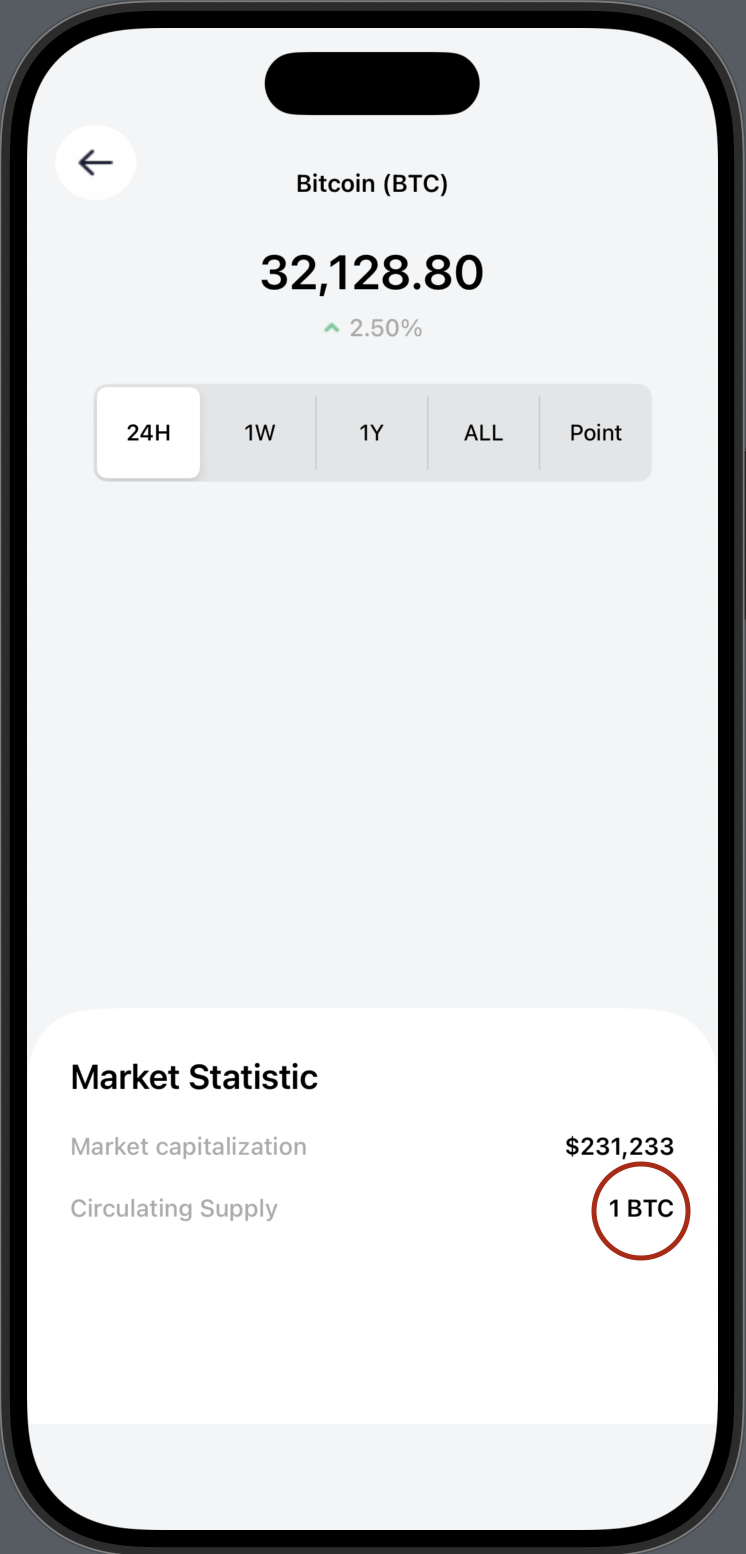
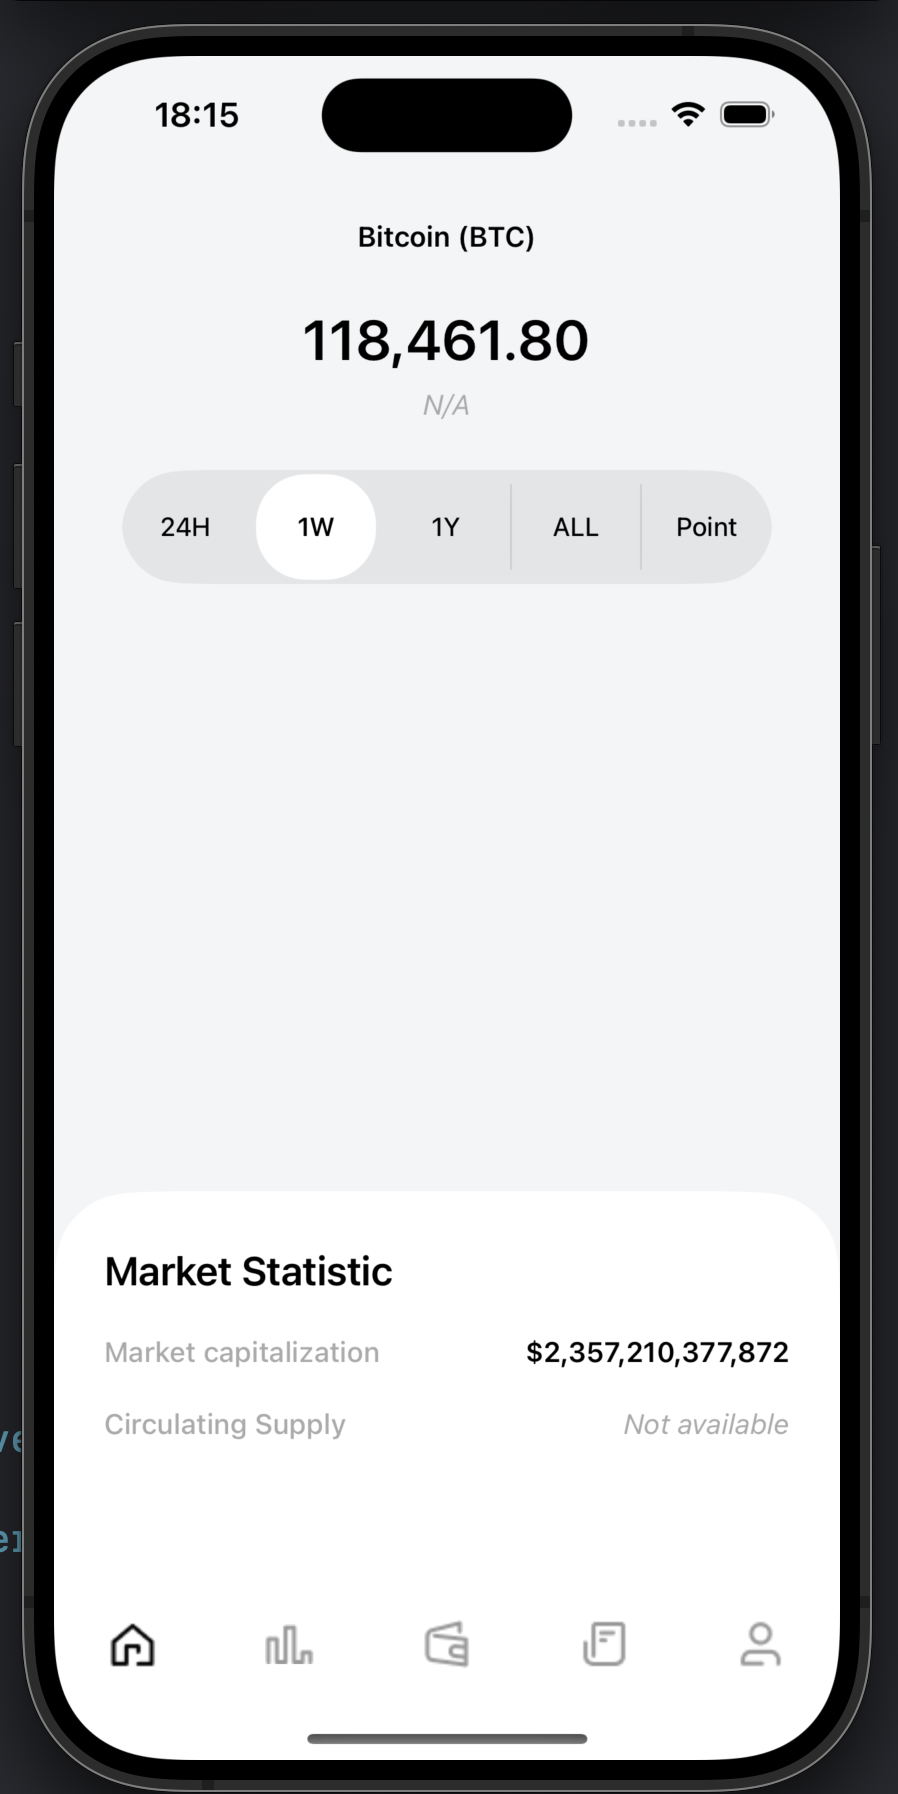
dynamic price change appearance added, bugs fixed

diff --git a/CryptoWallet/CryptoWallet/Core/Models/Coin.swift b/CryptoWallet/CryptoWallet/Core/Models/Coin.swift
@@ -8,8 +8,16 @@ struct Coin {
     
     let price: String
     let priceValue: Double
-    let change: String
-    let isPositiveChange: Bool
+    
+    let change24H: Double?
+    let change7D: Double?
+    let change1Y: Double?
+    let changeEver: Double?
+    
+    let change24HString: String?
+    let change7DString: String?
+    let change1YString: String?
+    let changeEverString: String?
     
     let marketcap: Double
     let marketcapString: String
@@ -19,16 +27,27 @@ struct Coin {
     let supply1Y: Double?
     let supplyEver: Double?
     
-    init(name: String, symbol: String, price: Double, change: Double, marketcap: Double,
+    init(name: String, symbol: String, price: Double,
+         change24H: Double?, change7D: Double?, change1Y: Double?, changeEver: Double?,
+         marketcap: Double,
          supply1D: Double?, supply7D: Double?, supply1Y: Double?, supplyEver: Double?) {
+        
         self.name = name
         self.symbol = symbol
         self.image = UIImage(named: symbol.lowercased())
         
         self.price = priceFormatter.string(from: NSNumber(value: price)) ?? "\(price)"
         self.priceValue = price
-        self.change = String(format: "%.2f%%", change)
-        self.isPositiveChange = change >= 0
+        
+        self.change24H = change24H
+        self.change7D = change7D
+        self.change1Y = change1Y
+        self.changeEver = changeEver
+        
+        self.change24HString = change24H != nil ? String(format: "%.2f%%", change24H!) : nil
+        self.change7DString = change7D != nil ? String(format: "%.2f%%", change7D!) : nil
+        self.change1YString = change1Y != nil ? String(format: "%.2f%%", change1Y!) : nil
+        self.changeEverString = changeEver != nil ? String(format: "%.2f%%", changeEver!) : nil
         
         self.marketcap = marketcap
         self.marketcapString = capFormatter.string(from: NSNumber(value: marketcap)) ?? "\(marketcap)"
@@ -37,6 +56,31 @@ struct Coin {
         self.supply7D = supply7D
         self.supply1Y = supply1Y
         self.supplyEver = supplyEver
+    }
+    
+    func getChange(for index: Int) -> Double? {
+        switch index {
+        case 0: return change24H
+        case 1: return change7D
+        case 2: return change1Y
+        case 3: return changeEver
+        default: return nil
+        }
+    }
+    
+    func getChangeString(for index: Int) -> String? {
+        switch index {
+        case 0: return change24HString
+        case 1: return change7DString
+        case 2: return change1YString
+        case 3: return changeEverString
+        default: return nil
+        }
+    }
+    
+    func isPositiveChange(for index: Int) -> Bool {
+        guard let change = getChange(for: index) else { return false }
+        return change >= 0
     }
     
     private let priceFormatter: NumberFormatter = {

diff --git a/CryptoWallet/CryptoWallet/Modules/CoinDetail/CoinDetailViewModel.swift b/CryptoWallet/CryptoWallet/Modules/CoinDetail/CoinDetailViewModel.swift
@@ -21,11 +21,14 @@ final class CoinDetailViewModel {
     }
     
     var displayChange: String {
-        return "\(coin.change)"
+        guard let changeString = coin.getChangeString(for: selectedIndex) else {
+            return "N/A"
+        }
+        return changeString
     }
     
     var arrowImageName: String {
-        return coin.isPositiveChange ? "arrow up" : "arrow down"
+        coin.isPositiveChange(for: selectedIndex) ? "arrow up" : "arrow down"
     }
     
     var timeFilters: [String] {
@@ -39,21 +42,42 @@ final class CoinDetailViewModel {
     func supplyValue(for index: Int) -> Double? {
         selectedIndex = index
         switch index {
-        case 0:
-            return coin.supply1D
-        case 1:
-            return coin.supply7D
-        case 2:
-            return coin.supply1Y
-        case 3:
-            return coin.supplyEver
-        default:
-            return nil
+        case 0: return coin.supply1D
+        case 1: return coin.supply7D
+        case 2: return coin.supply1Y
+        case 3: return coin.supplyEver
+        default: return nil
         }
     }
     
     func selectedSupplyValue() -> Double? {
         return supplyValue(for: selectedIndex)
+    }
+    
+    func changeValue(for index: Int) -> Double? {
+        switch index {
+        case 0: return coin.change24H
+        case 1: return coin.change7D
+        case 2: return coin.change1Y
+        case 3: return coin.changeEver
+        default: return nil
+        }
+    }
+    
+    func selectedChangeValue() -> Double? {
+        return changeValue(for: selectedIndex)
+    }
+    
+    func selectedChangeString() -> String? {
+        return coin.getChangeString(for: selectedIndex)
+    }
+    
+    func isSelectedChangePositive() -> Bool {
+        return coin.isPositiveChange(for: selectedIndex)
+    }
+    
+    func updateSelectedIndex(_ index: Int) {
+        selectedIndex = index
     }
     
     func coinData() -> Coin {

diff --git a/CryptoWallet/CryptoWallet/Modules/CoinDetail/CoinDetailViewController.swift b/CryptoWallet/CryptoWallet/Modules/CoinDetail/CoinDetailViewController.swift
@@ -9,7 +9,10 @@ class CoinDetailViewController: UIViewController {
             name: "Bitcoin",
             symbol: "BTC",
             price: 32128.80,
-            change: 2.5,
+            change24H: 2.5,
+            change7D: -1.2,
+            change1Y: nil,
+            changeEver: 120.5,
             marketcap: 231233,
             supply1D: nil,
             supply7D: 7,
@@ -56,6 +59,12 @@ class CoinDetailViewController: UIViewController {
         setupUI()
         setupLayout()
         setupNavigationButton()
+        updateChangeDisplay()
+    }
+    
+    override func viewWillAppear(_ animated: Bool) {
+        super.viewWillAppear(animated)
+        navigationController?.setNavigationBarHidden(false, animated: false)
     }
 }
 
@@ -70,13 +79,12 @@ private extension CoinDetailViewController {
         priceLabel.text = coinDetailViewModel.displayPrice
         priceLabel.font = .systemFont(ofSize: 28, weight: .semibold)
         
-        changeLabel.text = coinDetailViewModel.displayChange
+        changeLabel.text = ""
         changeLabel.font = UIFont.systemFont(ofSize: 14, weight: .medium)
         changeLabel.textColor = .lightGray
         
         // MARK: Change Image Arrow
         changeImageView.contentMode = .scaleAspectFit
-        changeImageView.image = UIImage(named: coinDetailViewModel.arrowImageName)
         
         // MARK: Segmented Control
         segmentedControl.removeAllSegments()
@@ -98,9 +106,33 @@ private extension CoinDetailViewController {
         tableView.isScrollEnabled = false
     }
     
-    @objc private func segmentedControlChanged(_ sender: UISegmentedControl) {
-        _ = coinDetailViewModel.supplyValue(for: sender.selectedSegmentIndex)
+    @objc func segmentedControlChanged(_ sender: UISegmentedControl) {
+        coinDetailViewModel.updateSelectedIndex(sender.selectedSegmentIndex)
+        updateChangeDisplay()
         tableView.reloadData()
+    }
+    
+    func updateChangeDisplay() {
+        if let changeValue = coinDetailViewModel.selectedChangeValue() {
+            let formatter = NumberFormatter()
+            formatter.minimumFractionDigits = 0
+            formatter.maximumFractionDigits = 2
+            let formattedNumber = formatter.string(from: NSNumber(value: changeValue)) ?? "\(changeValue)"
+            let formattedChange = "\(formattedNumber)%"
+            
+            changeLabel.text = formattedChange
+            changeLabel.textColor = .lightGray
+            changeLabel.font = .systemFont(ofSize: 14, weight: .medium)
+            
+            let imageName = coinDetailViewModel.arrowImageName
+            changeImageView.image = UIImage(named: imageName)
+            changeImageView.isHidden = false
+        } else {
+            changeLabel.text = "N/A"
+            changeLabel.textColor = .lightGray
+            changeLabel.font = .italicSystemFont(ofSize: 14)
+            changeImageView.isHidden = true
+        }
     }
 }
 

diff --git a/CryptoWallet/CryptoWallet/Modules/CoinList/CoinCell.swift b/CryptoWallet/CryptoWallet/Modules/CoinList/CoinCell.swift
@@ -115,10 +115,21 @@ class CoinCell: UITableViewCell {
         nameLabel.text = "\(coin.name)"
         tickerLabel.text = "\(coin.symbol)"
         priceLabel.text = "$" + coin.price
-        changeLabel.text = coin.change
         
-        let arrowImageName = coin.isPositiveChange ? "arrow up" : "arrow down"
-        changeArrowImageView.image = UIImage(named: arrowImageName)
+        if let change24HString = coin.change24HString {
+            changeLabel.text = change24HString
+            changeLabel.textColor = .lightGray
+            changeLabel.font = UIFont.systemFont(ofSize: 14, weight: .regular)
+            
+            let arrowImageName = coin.isPositiveChange(for: 0) ? "arrow up" : "arrow down"
+            changeArrowImageView.image = UIImage(named: arrowImageName)
+            changeArrowImageView.isHidden = false
+        } else {
+            changeLabel.text = "N/A"
+            changeLabel.textColor = .lightGray
+            changeLabel.font = UIFont.italicSystemFont(ofSize: 14)
+            changeArrowImageView.isHidden = true
+        }
         
         coinImageView.image = coin.image
     }

diff --git a/CryptoWallet/CryptoWallet/Core/Models/CoinData.swift b/CryptoWallet/CryptoWallet/Core/Models/CoinData.swift
@@ -28,11 +28,17 @@ struct Metrics: Codable {
 // MARK: - MarketData
 struct MarketData: Codable {
     let priceUsd: Double
-    let percentChangeUsdLast24Hours: Double
+    let percentChangeUsdLast24Hours: Double?
+    let percentChangeUsdLast7Days: Double?
+    let percentChangeUsdLast1Year: Double?
+    let percentChangeUsdEver: Double?
     
     enum CodingKeys: String, CodingKey {
         case priceUsd = "price_usd"
         case percentChangeUsdLast24Hours = "percent_change_usd_last_24_hours"
+        case percentChangeUsdLast7Days
+        case percentChangeUsdLast1Year
+        case percentChangeUsdEver
     }
 }
 

diff --git a/CryptoWallet/CryptoWallet/Services/CoinService.swift b/CryptoWallet/CryptoWallet/Services/CoinService.swift
@@ -48,7 +48,10 @@ class CoinService {
                         name: coinInfo.name,
                         symbol: coinInfo.symbol,
                         price: coinInfo.metrics.marketData.priceUsd,
-                        change: coinInfo.metrics.marketData.percentChangeUsdLast24Hours,
+                        change24H: coinInfo.metrics.marketData.percentChangeUsdLast24Hours,
+                        change7D: coinInfo.metrics.marketData.percentChangeUsdLast7Days,
+                        change1Y: coinInfo.metrics.marketData.percentChangeUsdLast1Year,
+                        changeEver: coinInfo.metrics.marketData.percentChangeUsdEver,
                         marketcap: coinInfo.metrics.marketcap.currentMarketcapUsd,
                         supply1D: coinInfo.metrics.supplyActivity.supplyActive1D,
                         supply7D: coinInfo.metrics.supplyActivity.supplyActive7D,

diff --git a/CryptoWallet/CryptoWallet/Modules/CoinDetail/CoinDetailCell.swift b/CryptoWallet/CryptoWallet/Modules/CoinDetail/CoinDetailCell.swift
@@ -107,6 +107,8 @@ class CoinDetailCell: UITableViewCell {
             let result = formatter.string(from: NSNumber(value: supply)) ?? "\(supply)"
             
             supplyAmountLabel.text = result + " \(coin.symbol)"
+            supplyAmountLabel.textColor = .black
+            supplyAmountLabel.font = .systemFont(ofSize: 14, weight: .semibold)
         } else {
             supplyAmountLabel.text = "Not available"
             supplyAmountLabel.textColor = .lightGray